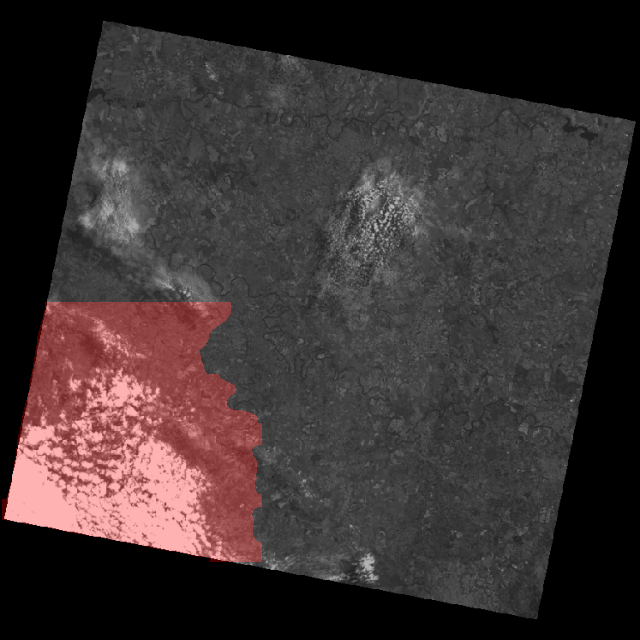
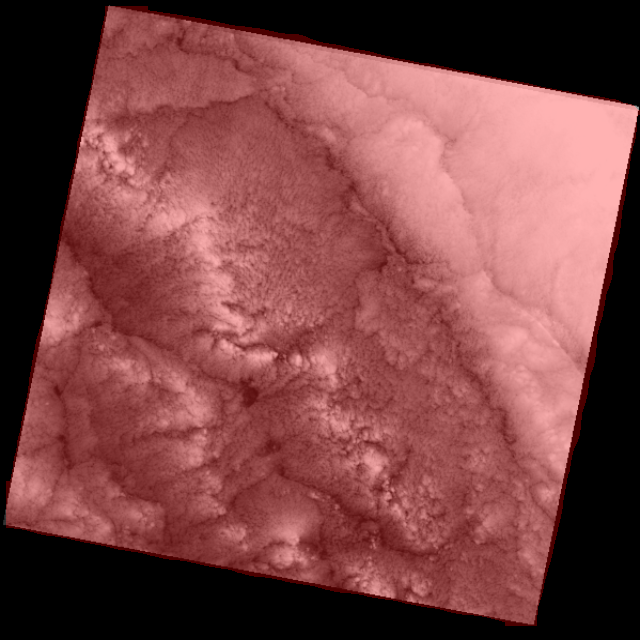
rota de transformar img em json ok, e rota de transformar json em imagem ok

diff --git a/app.py b/app.py
@@ -2,10 +2,12 @@ from flask import Flask, make_response, request, jsonify, send_file
 import funcoes.IA_a as IA_a
 import os
 import datetime
-from funcoes.serializador_de_imagem import transforma_imagem_em_json
+from funcoes.serializador_de_imagem import transforma_imagem_em_json, transforma_json_em_imagem
 import cv2
 import json
 from io import BytesIO
+import base64
+import numpy as np
 
 app = Flask(__name__)
 
@@ -48,7 +50,14 @@ def predict():
     area_visivel_mapa = 100 - porcentagem_nuvem
 
     imagem_original_json = transforma_imagem_em_json(image_path)
-    imagem_tratada_json = transforma_imagem_em_json('merged_output_with_color.png')  # Salvar como imagem antes de converter
+    
+    # Salvando a imagem tratada em um arquivo
+    tratada_path = "IA/img/merged_output_with_color.png"
+    cv2.imwrite(tratada_path, imagem_tratada)
+    
+    # Convertendo a imagem tratada para JSON Base64
+    with open(tratada_path, "rb") as img_file:
+        encoded_string = base64.b64encode(img_file.read()).decode('utf-8')
 
     resposta = {
         "id": id_unico,
@@ -65,106 +74,52 @@ def predict():
         "area_visivel_mapa": area_visivel_mapa,
         "imagem": None,
         "thumbnail": imagem_original_json,
-        "img_tratada": imagem_tratada_json
+        "img_tratada": encoded_string  # Agora a imagem está em Base64 correta
     }
 
     return jsonify(resposta)
 
-@app.route('/predict_with_image', methods=['POST'])
-def predict_with_image():
-    if not request.files:
-        return jsonify({'error': 'Nenhuma imagem provida'}), 400
+@app.route('/show_image', methods=['POST'])
+def show_image():
+    # Recebe o JSON com a imagem codificada
+    json_data = request.get_json()
 
-    imagem = next(iter(request.files.values()))
+    # Chama a função para transformar a imagem codificada em um arquivo PNG
+    success, mensagem = transforma_json_em_imagem(json_data, "IA/img/output_image.png")
 
-    image_dir = "IA/img/"
-    if not os.path.exists(image_dir):
-        os.makedirs(image_dir)
+    if success:
+        # Retorna a imagem decodificada
+        try:
+            return send_file("IA/img/output_image.png", mimetype='image/png'), 200
+        except FileNotFoundError:
+            return jsonify({"message": "Erro: Imagem não encontrada"}), 404
+    else:
+        # Em caso de erro, retorna a mensagem de erro
+        return jsonify({"message": mensagem}), 400
 
-    image_path = os.path.join(image_dir, imagem.filename)
-    imagem.save(image_path)
+def transforma_json_em_imagem(image_json, output_path):
+    try:
+        # Aqui, pegamos a imagem da chave "img_tratada"
+        image_data = image_json.get("img_tratada", "")
+        
+        if not image_data:
+            raise ValueError("Imagem não encontrada na chave 'img_tratada' do JSON")
 
-    supported_formats = {'bmp', 'jpg', 'png', 'tiff', 'mpo', 'webp', 'jpeg', 'dng', 'pfm', 'tif'}
+        # Decodificando a imagem Base64
+        missing_padding = len(image_data) % 4
+        if missing_padding:
+            image_data += '=' * (4 - missing_padding)
 
-    if image_path.split('.')[-1].lower() not in supported_formats:
-        os.remove(image_path)
-        return jsonify({'error': 'Formato de imagem não suportado'}), 400
+        with open(output_path, "wb") as output_file:
+            output_file.write(base64.b64decode(image_data))
 
-    print(f"Imagem encontrada: {image_path}")
-
-    mask_path, imagem_tratada, porcentagem_nuvem = IA_a.IA(image_path)
-
-    nome_base = os.path.splitext(imagem.filename)[0]
-    valor_increment = 1  # Ajuste conforme necessário
-
-    id_unico = f"{nome_base}_{valor_increment}"
-
-    data_atual = datetime.datetime.now().strftime("%Y-%m-%d")
-    hora_atual = datetime.datetime.now().strftime("%H:%M:%S")
-
-    resolucao_imagem = f"{imagem_tratada.shape[1]}x{imagem_tratada.shape[0]}"  # largura x altura
-    area_visivel_mapa = 100 - porcentagem_nuvem
-
-    resposta = {
-        "id": id_unico,
-        "data": data_atual,
-        "hora": hora_atual,
-        "geometry": {
-            "type": "Polygon",
-            "coordinates": None
-        },
-        "resolucao_imagem": resolucao_imagem,
-        "satelite": "CBERS4A",
-        "sensor": "WPM",
-        "percentual_nuvem": porcentagem_nuvem,
-        "area_visivel_mapa": area_visivel_mapa,
-    }
-
-    # Criar a resposta multipart
-    boundary = '----WebKitFormBoundary7MA4YWxkTrZu0gW'
-    parts = []
-
-    # Adicionar o JSON como uma parte
-    parts.append(f'--{boundary}')
-    parts.append('Content-Disposition: form-data; name="json"')
-    parts.append('Content-Type: application/json; charset=utf-8')
-    parts.append('')
-    parts.append(json.dumps(resposta))  # Agora o json estará definido corretamente
-
-    # Adicionar a imagem tratada como uma parte
-    img_tratada_io = BytesIO()
-    _, img_tratada_encoded = cv2.imencode('.png', imagem_tratada)
-    img_tratada_io.write(img_tratada_encoded.tobytes())
-    img_tratada_io.seek(0)
-    
-    parts.append(f'--{boundary}')
-    parts.append('Content-Disposition: form-data; name="img_tratada"; filename="imagem_tratada.png"')
-    parts.append('Content-Type: image/png')
-    parts.append('')
-    parts.append(img_tratada_io.read().decode('latin1'))  # Use 'latin1' para converter bytes para string
-
-    # Adicionar a thumbnail como uma parte
-    img_thumbnail = cv2.resize(imagem_tratada, (100, 100))
-    thumbnail_io = BytesIO()
-    _, thumbnail_encoded = cv2.imencode('.png', img_thumbnail)
-    thumbnail_io.write(thumbnail_encoded.tobytes())
-    thumbnail_io.seek(0)
-    
-    parts.append(f'--{boundary}')
-    parts.append('Content-Disposition: form-data; name="thumbnail"; filename="thumbnail.png"')
-    parts.append('Content-Type: image/png')
-    parts.append('')
-    parts.append(thumbnail_io.read().decode('latin1'))
-
-    # Finalizar a resposta multipart
-    parts.append(f'--{boundary}--')
-    parts.append('')
-
-    body = '\r\n'.join(parts)
-
-    response = make_response(body)
-    response.headers['Content-Type'] = f'multipart/form-data; boundary={boundary}'
-    return response
+        return True, "Imagem decodificada com sucesso"
+    except json.JSONDecodeError as json_err:
+        return False, f"Erro ao decodificar JSON: {str(json_err)}"
+    except ValueError as val_err:
+        return False, str(val_err)
+    except Exception as e:
+        return False, f"Erro ao decodificar a imagem: {str(e)}"
 
 if __name__ == '__main__':
     app.run(debug=True)

diff --git a/funcoes/serializador_de_imagem.py b/funcoes/serializador_de_imagem.py
@@ -17,9 +17,16 @@ def transforma_imagem_em_json(resultado_da_imagem):
 
 # Desserializa o JSON de volta para a imagem
 def transforma_json_em_imagem(image_json, output_path):
-    image_data = json.loads(image_json)["image_data"]
-    with open(output_path, "wb") as output_file:
-        output_file.write(base64.b64decode(image_data))
+    try:
+        image_data = json.loads(image_json).get("image_data", "")
+        if not image_data:
+            raise ValueError("Imagem não encontrada no JSON")
+        
+        with open(output_path, "wb") as output_file:
+            output_file.write(base64.b64decode(image_data))
+        return True, "Imagem decodificada com sucesso"
+    except Exception as e:
+        return False, f"Erro ao decodificar a imagem: {str(e)}"
 
 #output_image_path = "(path onde a imagem vai ser salva)"
 #output_image_path = "IA/img/output_image.png"

diff --git a/test.py b/test.py
@@ -1,4 +1,4 @@
-import IA_a as IA_a
+import funcoes.IA_a as IA_a
 
 image_path = "C:/controller-identificacao-ia/IA/CBERS_4A_MUX_20240920_235_113.png"
 
